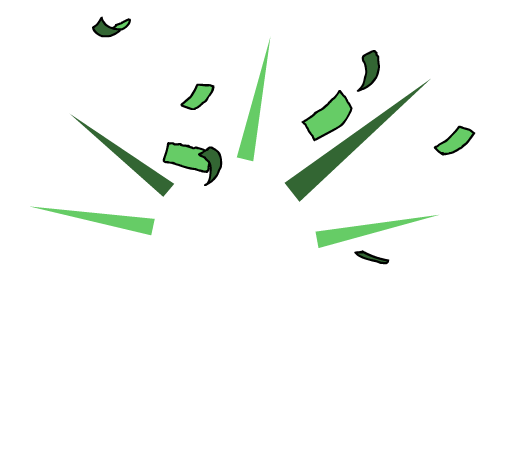
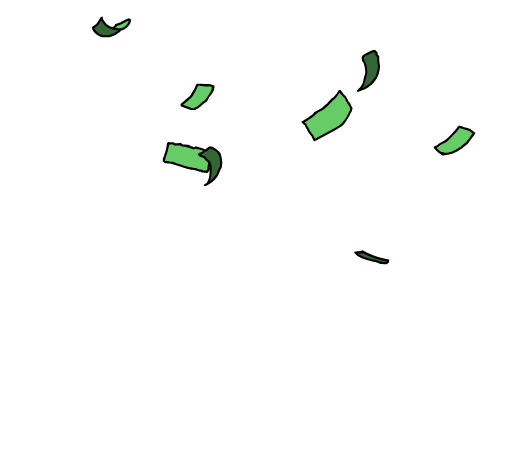
новое начало через 8 сек

diff --git a/front/src/Field.jsx b/front/src/Field.jsx
@@ -1089,6 +1089,9 @@ function Field() {
         let i = 1;
         let time = 80;
         while (i <= 67) {
+            if (i === 67) {
+                time = 2000;
+            }
             setBanknotes_control(i);
             let promise = new Promise((resolve, reject) => {
                 setTimeout(() => {
@@ -1160,7 +1163,7 @@ function Field() {
         let i = 1;
         let k = 1;
         let time = 30;
-        while (k <= 5) {
+        while (k <= 11) {
             while (i <= 24) {
                 setFlame_control(i);
                 let promise = new Promise((resolve, reject) => {
@@ -1174,9 +1177,9 @@ function Field() {
             i = 1;
             k++;
             /**
-             * На 4-м круге начинает исчезать
+             * На 10-м круге начинает исчезать
              * */
-            if (k === 4) {
+            if (k === 10) {
                 star_score_ref.current.style.transition = '0.2s';
                 star_score_ref.current.style.opacity = '0';
             }
@@ -1187,7 +1190,7 @@ function Field() {
 
     async function runExplode() {
         let i = 1;
-        let time = 50;
+        let time = 30;
         while (i <= 18) {
             setExplode_control(i);
             let promise = new Promise((resolve, reject) => {
@@ -1394,6 +1397,7 @@ function Field() {
                     } else {
                         if (arrow_shoot_with_ref.current === 'grenade') {
                             flyBanknots().then(() => setBanknotes_control(0));
+                            setStar_score('99');
                         }
                     }
                 } else {
@@ -1417,9 +1421,9 @@ function Field() {
                 star_score_ref.current.style.transform = 'translate(0px, -100px)';
             }
             /**
-             * Через 5 сек старт новой игры или продолжение старой
+             * Через 8 сек старт новой игры или продолжение старой
              * */
-            const time_out = 5000;
+            const time_out = 8000;
             setTimeout(() => {
                 /**
                  * Демо запускается если:
